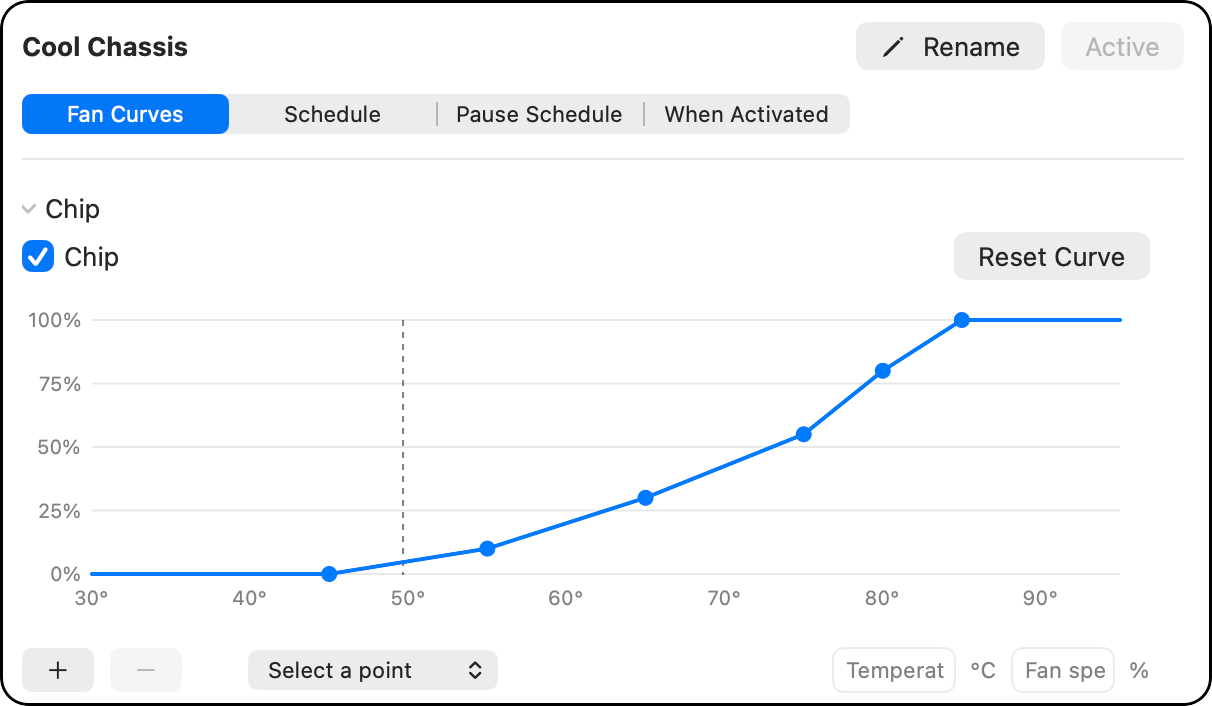
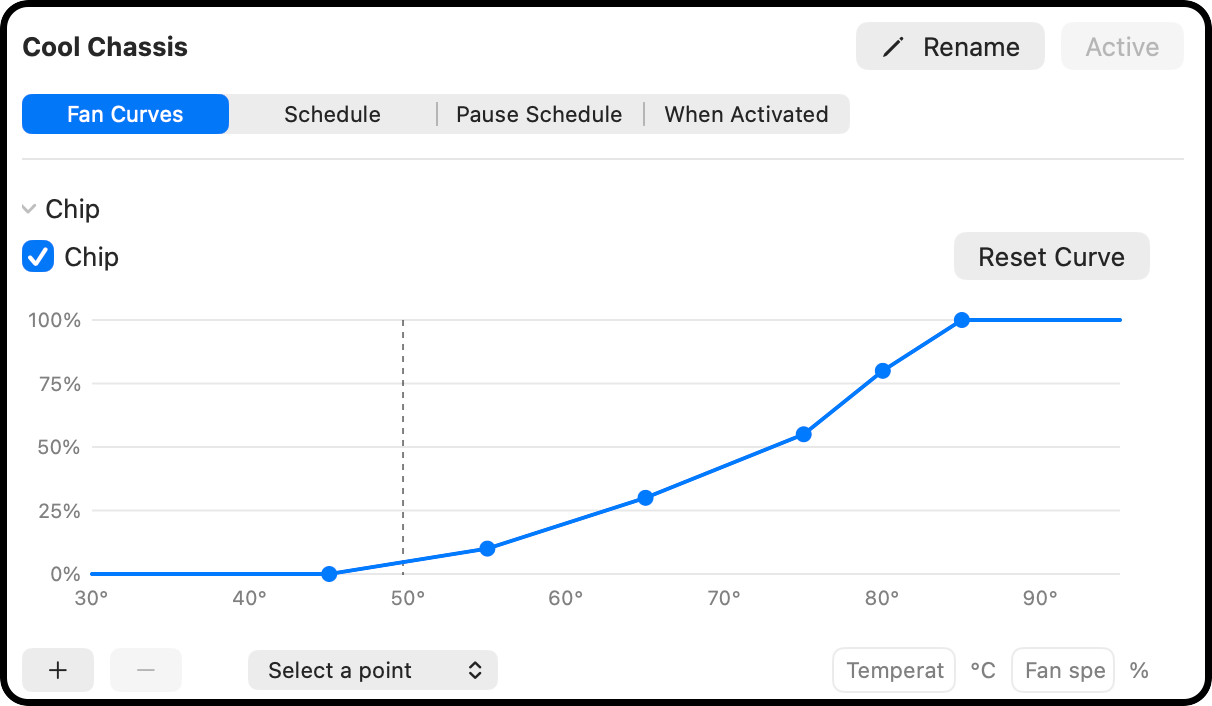
Enlarge supplied menu screenshot and strengthen curve border

Changed region(s): [[0.0, 0.0, 1.0, 0.9972]]

diff --git a/docs/GITHUB_RELEASE.md b/docs/GITHUB_RELEASE.md
@@ -27,7 +27,7 @@ Before initial publication, all 38 reachable Git commits and 629 unique blobs we
 
 The README uses the owner's supplied screenshots of Cool Chassis: its chip curve editor and native menu with live temperature readings. Rounded corner masks preserve the original screenshot content and resolution; the menu's surrounding desktop margin is cropped. No personal information or schedules are visible. PNG ancillary metadata was stripped, and both images were visually reviewed.
 
-The public-content checker permits only specifically reviewed image paths and validates PNG structure, checksums and allowed non-text chunks. Other binary artifacts remain rejected. The images are shown side by side at the same display height, with a smaller menu and a thin black outline around the rounded curve image. Customizable temperature readings inside the menu are documented explicitly.
+The public-content checker permits only specifically reviewed image paths and validates PNG structure, checksums and allowed non-text chunks. Other binary artifacts remain rejected. The images are shown side by side at the same display height, with the updated menu screenshot at a readable size and a clearly visible black outline around the rounded curve image. Customizable temperature readings inside the menu are documented explicitly.
 
 ## Remaining work
 

diff --git a/README.md b/README.md
@@ -12,9 +12,9 @@
 <p align="center">Apple Silicon MacBook Pro · macOS 15 or later · Signed &amp; notarized</p>
 
 <p align="center">
-  <img src="docs/images/menu.png" width="147" height="280" alt="Fandy menu with cooling profiles, fan speed and customizable temperatures">
+  <img src="docs/images/menu.png" width="206" height="350" alt="Fandy menu with cooling profiles, fan speed and customizable temperatures">
   &nbsp;
-  <img src="docs/images/curve.png" width="481" height="280" alt="Fandy’s editable Cool Chassis chip fan curve">
+  <img src="docs/images/curve.png" width="601" height="350" alt="Fandy’s editable Cool Chassis chip fan curve">
 </p>
 
 Fandy is a native menu-bar fan controller and temperature monitor. View chip and chassis temperatures alongside fan speeds, switch cooling profiles, and schedule cooling around your day.
